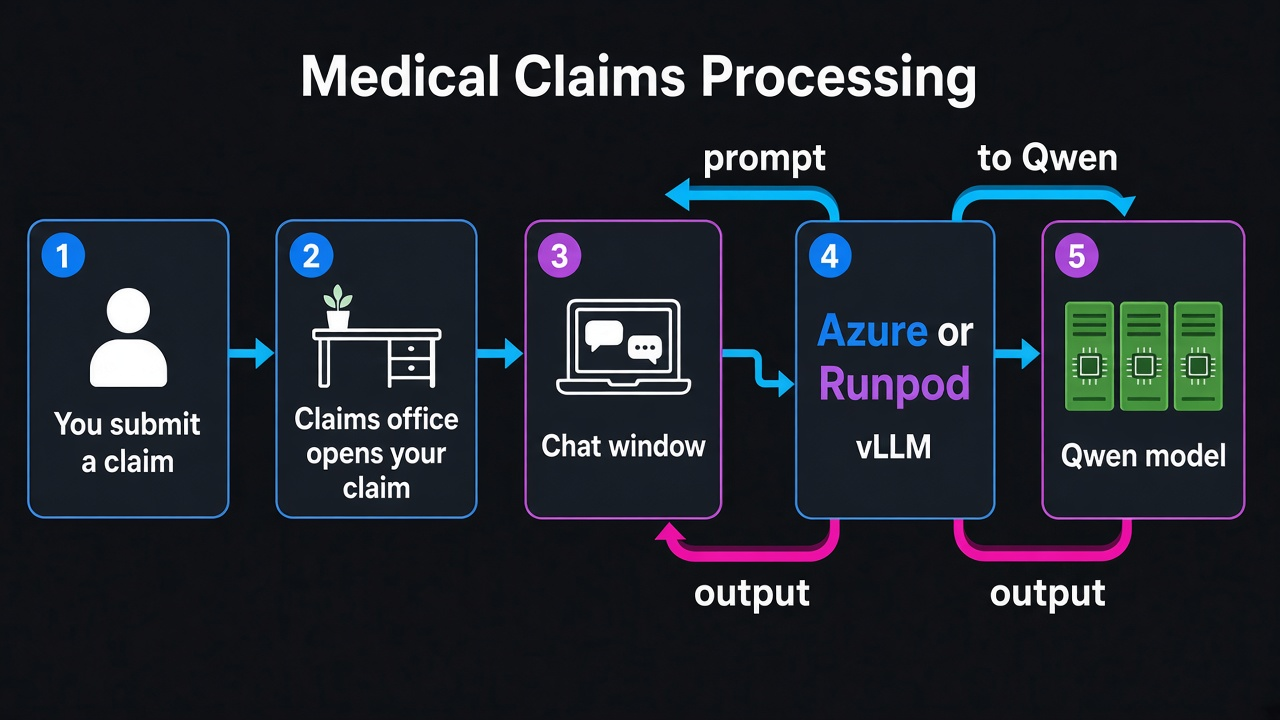
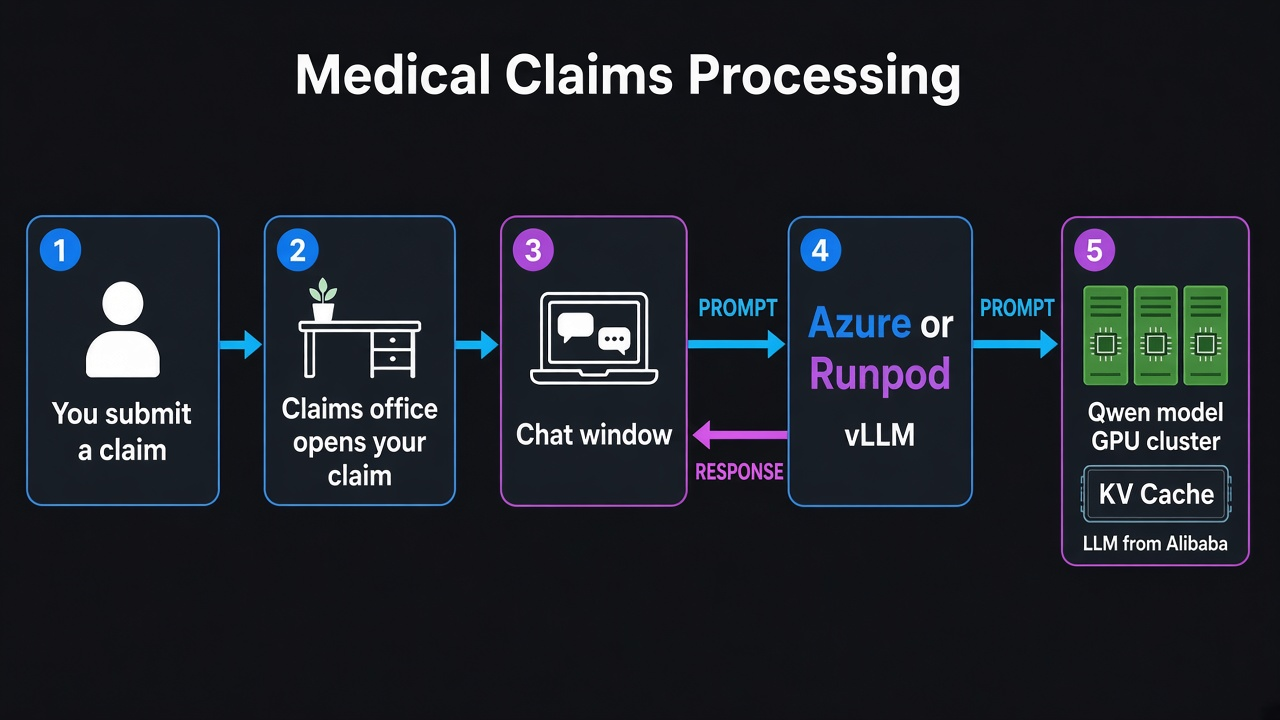
Show prompt and response on the claims diagram and name Qwen up front.
Chat sends a prompt through vLLM to Qwen (KV cache on GPU); the answer returns to the window.

diff --git a/README.md b/README.md
@@ -17,6 +17,8 @@
 
 This repo shows software engineers deploying an LLM on their company’s Kubernetes cluster, and how **vLLM** helps that cluster handle about **1 million requests per hour** — using **Medical Claims Processing** as the business story for managing the model.
 
+**Qwen** is an LLM from **Alibaba**. Companies can download it and run it on their own GPUs instead of calling OpenAI, Claude, Copilot, or Gemini.
+
 Firstly, picture a business application: **Medical Claims Processing**. Assume **you** submitted a claim. Then people in the **claims office** start working on your claim. For that they open a **chat window** in their office chat app. Behind the chat, ordinary backend code (Java, .NET, Node) takes the message, mixes in **business rules** (coverage limits, medical codes, extra checks) and a **prompt**, and asks the company model “what should we do with this claim?” Claim data never has to leave the company.
 
 ![Medical claims flow: customer, office chat, Azure or Runpod, Qwen](docs/images/medical-claims-flow.png)
@@ -26,7 +28,7 @@ With that picture:
 - **HTTP requests** = many people in the claims office with that chat window open. Each send is an HTTP call from the backend to the model. A busy office can be on the order of **1 million such calls per hour**.
 - **LLM inference** = that backend calling **the company’s own hosted model** — not OpenAI, Claude, Copilot, or Gemini. The company runs the model on **its GPUs** and gets an answer back.
 
-**Qwen** is an LLM from **Alibaba**. The model files are downloadable, so a company can put **Qwen2.5-7B-Instruct-AWQ** on **its own cloud cluster that has GPUs** (Azure AKS or Runpod in this repo) the same way it would host any other internal API. In the picture, vLLM is the program in front of Qwen on that cluster.
+**Qwen** on that cluster is the Alibaba model named above. The model files go on **your GPUs** (Azure AKS or Runpod). In the picture, the chat sends a **prompt** to **vLLM**, vLLM sends it to **Qwen** (KV cache stays on the GPU), and the **response** comes back to the chat window.
 
 What the industry calls **LLM inference serving** is just that internal API: the model stays on the GPU, and those chat/backend calls get answers. **vLLM** is the process that makes that API fast when many people chat at once.
 
